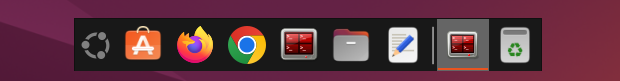
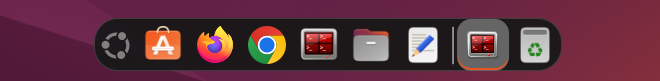
style(dock): add modern rounded corners and border to floating dock

Changed region(s): [[0.0, 0.1975, 0.8887, 0.9383], [0.2758, 0.9383, 0.3065, 0.9877]]

diff --git a/configs/gtk.css b/configs/gtk.css
@@ -30,6 +30,24 @@ scrollbar slider:active {
     background-color: #00f0ff;
 }
 
+/* Floating Rounded Dock */
+.ubroid-dock,
+window.ubroid-dock,
+.xfce4-panel.ubroid-dock {
+    border-radius: 24px;
+    background-color: rgba(24, 24, 24, 0.94);
+    border: 1px solid rgba(255, 255, 255, 0.16);
+    padding: 2px 8px;
+}
+
+.ubroid-dock button {
+    border-radius: 14px;
+}
+
+.ubroid-dock button:hover {
+    background-color: rgba(255, 255, 255, 0.14);
+}
+
 /* Desktop Icon Labels - Bold, Sharp & Drop Shadowed */
 XfdesktopIconView.view,
 .xfdesktop-icon-view {

diff --git a/src/libnogap.c b/src/libnogap.c
@@ -297,6 +297,16 @@ void gtk_window_move(GtkWindow *window, gint x, gint y) {
              * above Android's navigation/gesture bar and overlaps the 32px trigger zone */
             gtk_widget_set_opacity(GTK_WIDGET(window), 1.0);
             y = screen_h - 47 - 16;
+
+            GtkStyleContext *sc = gtk_widget_get_style_context(GTK_WIDGET(window));
+            if (sc) gtk_style_context_add_class(sc, "ubroid-dock");
+            if (GTK_IS_BIN(window)) {
+                GtkWidget *child = gtk_bin_get_child(GTK_BIN(window));
+                if (child) {
+                    GtkStyleContext *csc = gtk_widget_get_style_context(child);
+                    if (csc) gtk_style_context_add_class(csc, "ubroid-dock");
+                }
+            }
         }
     }
 
